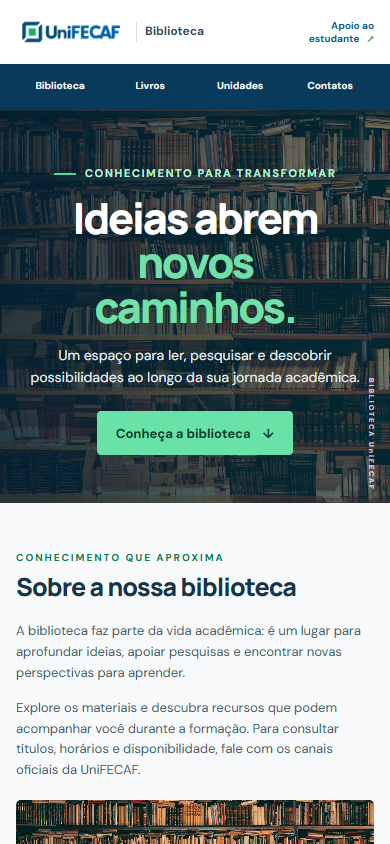
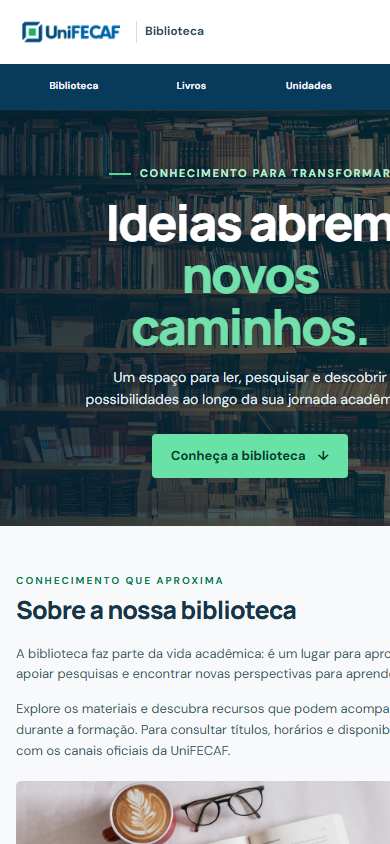
Mudança das imagens do site

diff --git a/index.html b/index.html
@@ -57,7 +57,7 @@
             <p>Explore os materiais e descubra recursos que podem acompanhar você durante a formação. Para consultar títulos, horários e disponibilidade, fale com os canais oficiais da UniFECAF.</p>
           </div>
           <figure class="about-photo">
-            <img src="assets/imagens/biblioteca.jpg" alt="Estantes de livros em um ambiente de biblioteca.">
+            <img src="assets/imagens/leitura-mesa.jpg" alt="Livro aberto, café e óculos sobre uma mesa de leitura.">
             <figcaption>Um convite para explorar, estudar e seguir aprendendo.</figcaption>
           </figure>
         </div>
@@ -94,7 +94,7 @@
       </div>
     </section>
 
-    <section class="image-break" aria-label="Ambiente de leitura">
+    <section class="image-break" aria-label="Corredor entre estantes de uma biblioteca">
       <div class="image-break-overlay"></div>
       <div class="image-break-content">
         <p class="section-kicker">Um novo capítulo começa aqui</p>
@@ -160,15 +160,15 @@
         </div>
         <div class="unit-list">
           <article class="unit-row">
-            <img src="assets/imagens/biblioteca.jpg" alt="Estantes de livros em uma biblioteca." loading="lazy">
+            <img src="assets/imagens/estudo-grupo.jpg" alt="Estudantes estudando juntos, em fotografia ilustrativa." loading="lazy">
             <div class="unit-copy"><p class="unit-number">01 / UniFECAF</p><h3>Unidade 1</h3><p>Um espaço para estudar, consultar materiais e aprofundar sua pesquisa. Consulte os canais oficiais para informações de endereço e atendimento.</p></div>
           </article>
           <article class="unit-row">
-            <img src="assets/imagens/biblioteca.jpg" alt="Ambiente de leitura com livros organizados em estantes." loading="lazy">
+            <img src="assets/imagens/livros-antigos.jpg" alt="Livros antigos organizados em uma estante, em fotografia ilustrativa." loading="lazy">
             <div class="unit-copy"><p class="unit-number">02 / UniFECAF</p><h3>Unidade 2</h3><p>Encontre recursos para acompanhar seus estudos e ampliar o que aprende em sala de aula. Horários e serviços devem ser confirmados com a instituição.</p></div>
           </article>
           <article class="unit-row">
-            <img src="assets/imagens/biblioteca.jpg" alt="Coleção de livros em um ambiente acadêmico." loading="lazy">
+            <img src="assets/imagens/anotacoes-estudo.jpg" alt="Anotações feitas à mão em um caderno durante os estudos, em fotografia ilustrativa." loading="lazy">
             <div class="unit-copy"><p class="unit-number">03 / UniFECAF</p><h3>Unidade 3</h3><p>Consulte a equipe para conhecer as opções de atendimento, acesso ao acervo e espaços disponíveis nesta unidade.</p></div>
           </article>
         </div>
@@ -185,7 +185,7 @@
           <a class="button button-blue" href="https://www.unifecaf.com.br/" target="_blank" rel="noopener noreferrer">Acessar o site UniFECAF <span aria-hidden="true">↗</span></a>
         </div>
         <figure class="contact-photo">
-          <img src="assets/imagens/biblioteca.jpg" alt="Livros em uma biblioteca, representando o espaço de estudo da UniFECAF." loading="lazy">
+          <img src="assets/imagens/estantes-amplas.jpg" alt="Corredor amplo entre estantes de livros em uma biblioteca." loading="lazy">
           <figcaption>Estamos aqui para apoiar sua jornada.</figcaption>
         </figure>
       </div>

diff --git a/css/style.css b/css/style.css
@@ -402,7 +402,7 @@ figure {
   place-items: center;
   overflow: hidden;
   color: #fff;
-  background: #164457 url("../assets/imagens/biblioteca.jpg") center 54% / cover no-repeat;
+  background: #164457 url("../assets/imagens/corredor-biblioteca.jpg") center 54% / cover no-repeat;
 }
 
 .image-break-overlay {
